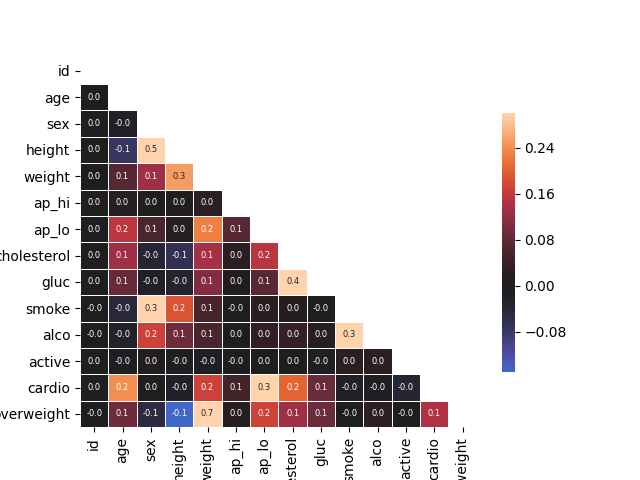
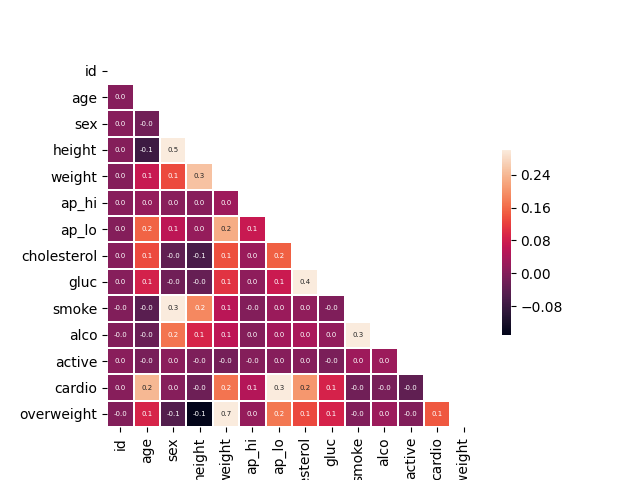
Changes to be committed: 	modified:   heatmap.png 	modified:   medical_data_visualizer.py
Note: Solution was completed!

Changed region(s): [[0.0, 0.125, 0.75, 1.0], [0.7812, 0.2188, 0.875, 0.7812]]

diff --git a/medical_data_visualizer.py b/medical_data_visualizer.py
@@ -52,21 +52,36 @@ def draw_cat_plot():
 # Draw Heat Map
 def draw_heat_map():
     # Clean the data
-    df_heat = None
+    df_heat = df[df['ap_lo'] <= df['ap_hi']]                        # diastolic pressure is higher than systolic
+    df_heat = df_heat[df['height'] >= df['height'].quantile(0.025)] # height is less than the 2.5th percentile
+    df_heat = df_heat[df['height'] <= df['height'].quantile(0.975)] # height is more than the 97.5th percentile
+    df_heat = df_heat[df['weight'] >= df['weight'].quantile(0.025)] # weight is less than the 2.5th percentile
+    df_heat = df_heat[df['weight'] <= df['weight'].quantile(0.975)] # weight is more than the 97.5th percentile
 
     # Calculate the correlation matrix
-    corr = None
+    corr = df_heat.corr()
 
     # Generate a mask for the upper triangle
-    mask = None
-
+    mask = np.ones_like(df_heat.corr(), dtype=bool)   # Create a copy of corr where all values is ones
+    mask = np.triu(mask, 0)                           # mask out correct portion of the triangle
 
 
     # Set up the matplotlib figure
-    fig, ax = None
+    fig, ax = plt.subplots()
 
     # Draw the heatmap with 'sns.heatmap()'
-
+    sns.heatmap(
+        data = corr,                    # import data
+        mask = mask,                    # masking the heatmap to look like a triangle
+        vmax = 0.30,                    # max val for colors
+        annot = True,                   # show text in each boxes
+        annot_kws = {'fontsize' : 5},   # modifying fontsize
+        fmt=".1f",                      # format annot in one digit after the decimal point
+        linewidths = 0.2,               # line width that closely to reference
+        linecolor = 'white',            # color white to make it look like a gap
+        cbar_kws = {"shrink" : .5},     # shrink color bar
+        square = True                   # making sure each boxes is square
+    )
 
 
     # Do not modify the next two lines
